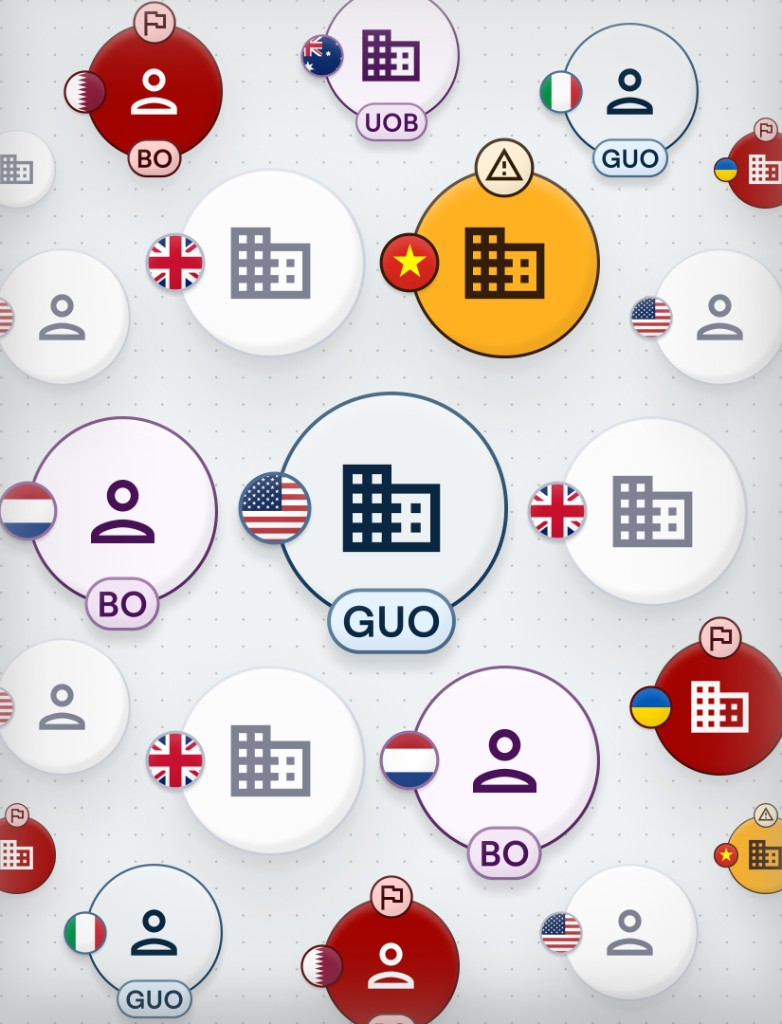
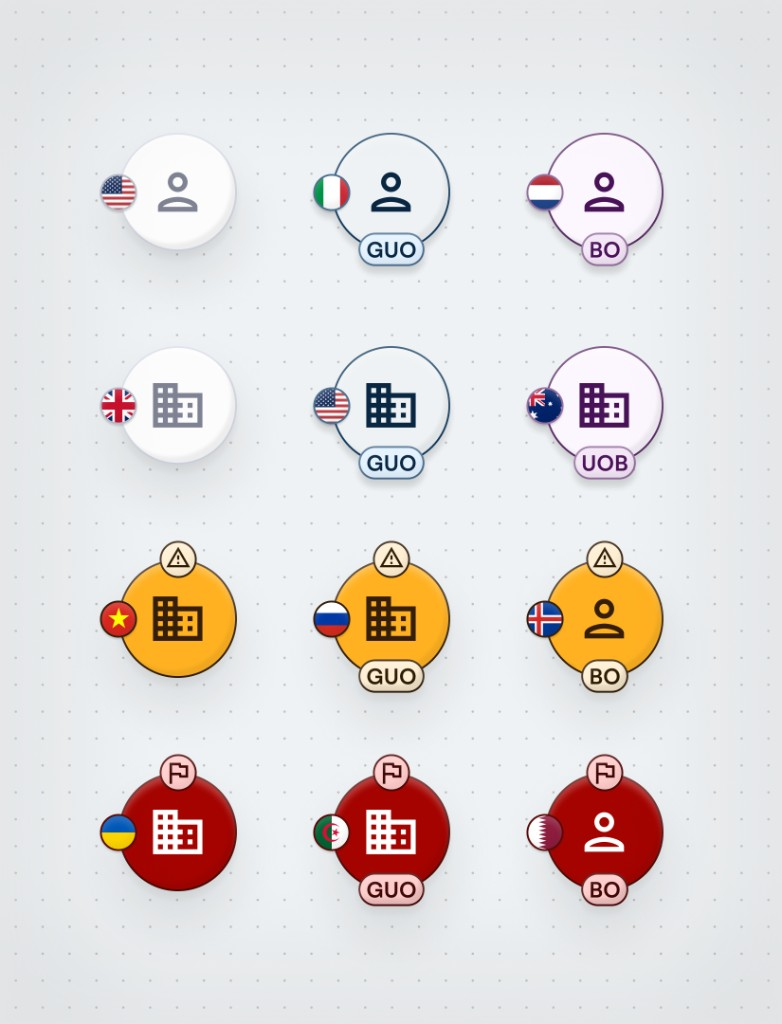
Update Network Graph and FLRA homepage thumbnails.

diff --git a/index.html b/index.html
@@ -263,12 +263,12 @@ a {
             <div class="work_wrap">
               <div data-w-id="bed124ed-6d4a-9f4d-301e-11d2ea3fe6b7" class="work_left">
                 <a href="network-graphs.html" class="work_card w-inline-block" aria-label="Network Graph — Moody&#x27;s Analytics case study">
-                  <div class="work_img"><img src="images/Network-Graph.png" loading="lazy" alt="Network graph showing ownership nodes, beneficial owners and country flags" class="work_photo"></div>
+                  <div class="work_img"><img src="images/Network-Graph.png" loading="lazy" alt="Network graph node components showing entities, ownership roles and risk indicators" class="work_photo"></div>
                   <p class="work_title">Network Graph</p>
                   <p class="work_sub-title">Moody&#x27;s Analytics. Network visualisation.</p>
                 </a>
                 <a href="forced-labour-risk-assessment.html" class="work_card w-inline-block" aria-label="Forced Labour Risk Assessment — Moody&#x27;s Analytics case study">
-                  <div class="work_img"><img src="images/flra-journey-diagram.svg" loading="lazy" alt="Supplier due-diligence journey diagram" class="work_photo"></div>
+                  <div class="work_img"><img src="images/Forced-Labour-Risk-Assessment.png" loading="lazy" alt="Moody&#x27;s and University of Nottingham Rights Lab partnership logo" class="work_photo"></div>
                   <p class="work_title">Forced Labour Risk Assessment</p>
                   <p class="work_sub-title">Moody&#x27;s Analytics. Survey design.</p>
                 </a>
